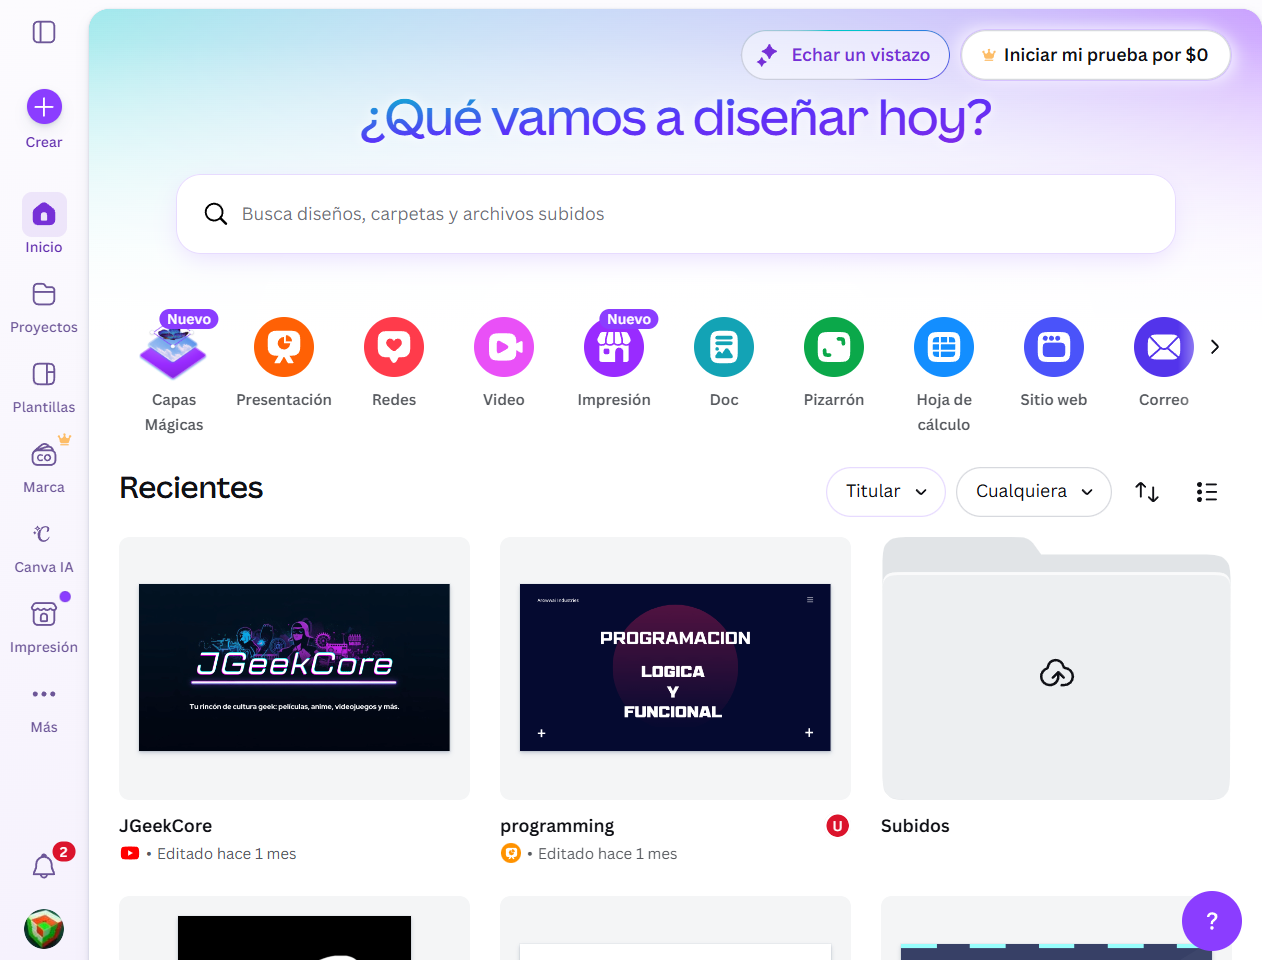
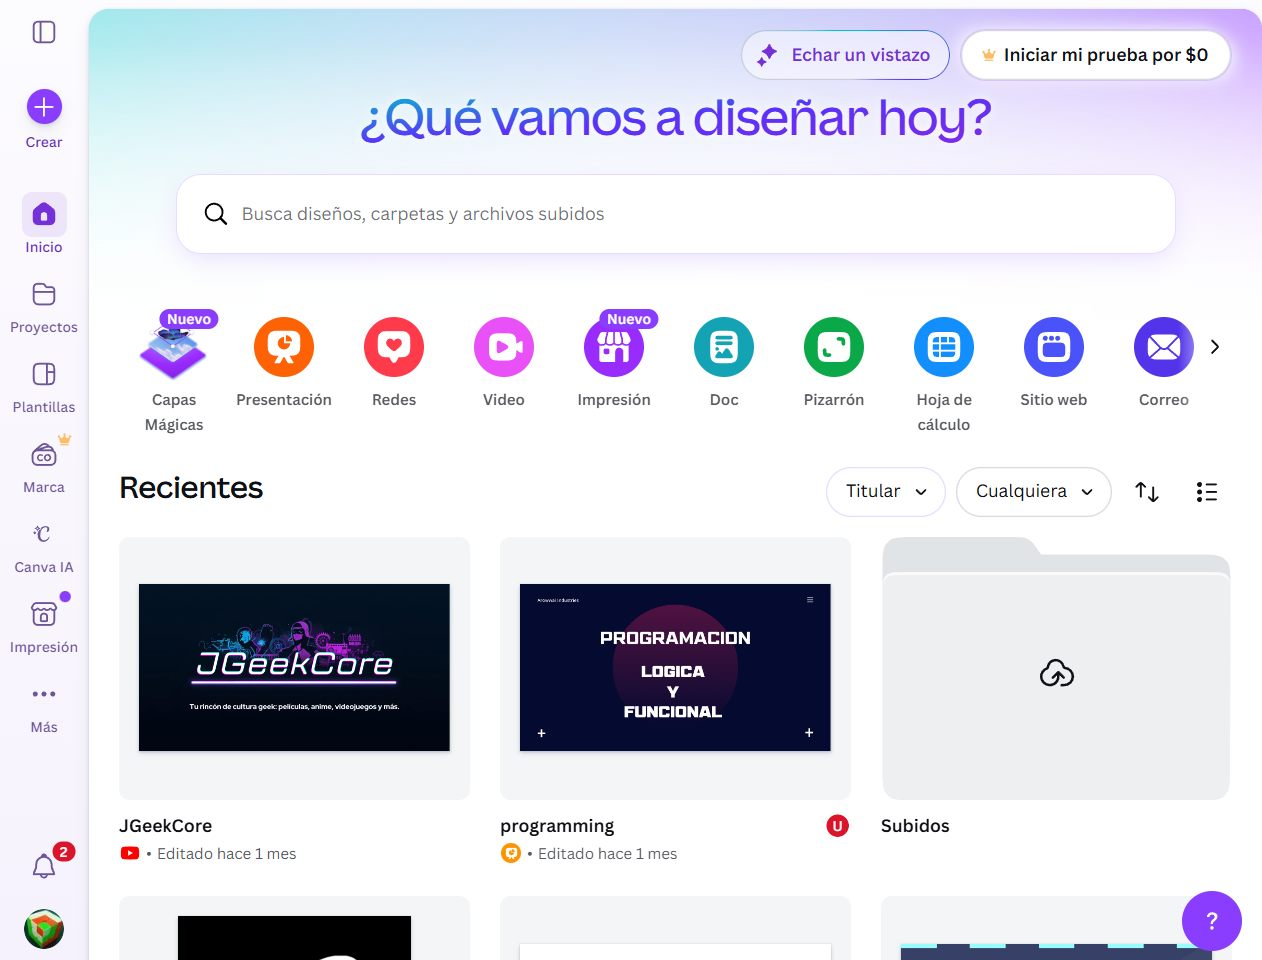
Replace PNG images with JPG counterparts in project data for IoT Control System

diff --git a/src/sections/Projects.jsx b/src/sections/Projects.jsx
@@ -14,9 +14,9 @@ const projectsData = [
     repoHref: "https://github.com/80chucho08/vehiculo-iot-front",
     group: "Vehículo IoT",
     images: [
-      { src: "/project_images/control-iot-front/control-dashboard.png", caption: "Panel de control con joysticks virtuales, parada de emergencia y estado de los servicios." },
-      { src: "/project_images/control-iot-front/demo-ejecucion.png", caption: "Rutina demo en ejecución con temporizador y botón para cancelarla." },
-      { src: "/project_images/control-iot-front/monitoring-dashboard.png", caption: "Monitoreo: último movimiento y los últimos 10 comandos persistidos en la base de datos." },
+      { src: "/project_images/control-iot-front/control-dashboard.jpg", caption: "Panel de control con joysticks virtuales, parada de emergencia y estado de los servicios." },
+      { src: "/project_images/control-iot-front/demo-ejecucion.jpg", caption: "Rutina demo en ejecución con temporizador y botón para cancelarla." },
+      { src: "/project_images/control-iot-front/monitoring-dashboard.jpg", caption: "Monitoreo: último movimiento y los últimos 10 comandos persistidos en la base de datos." },
     ],
     featured: null,
   },
